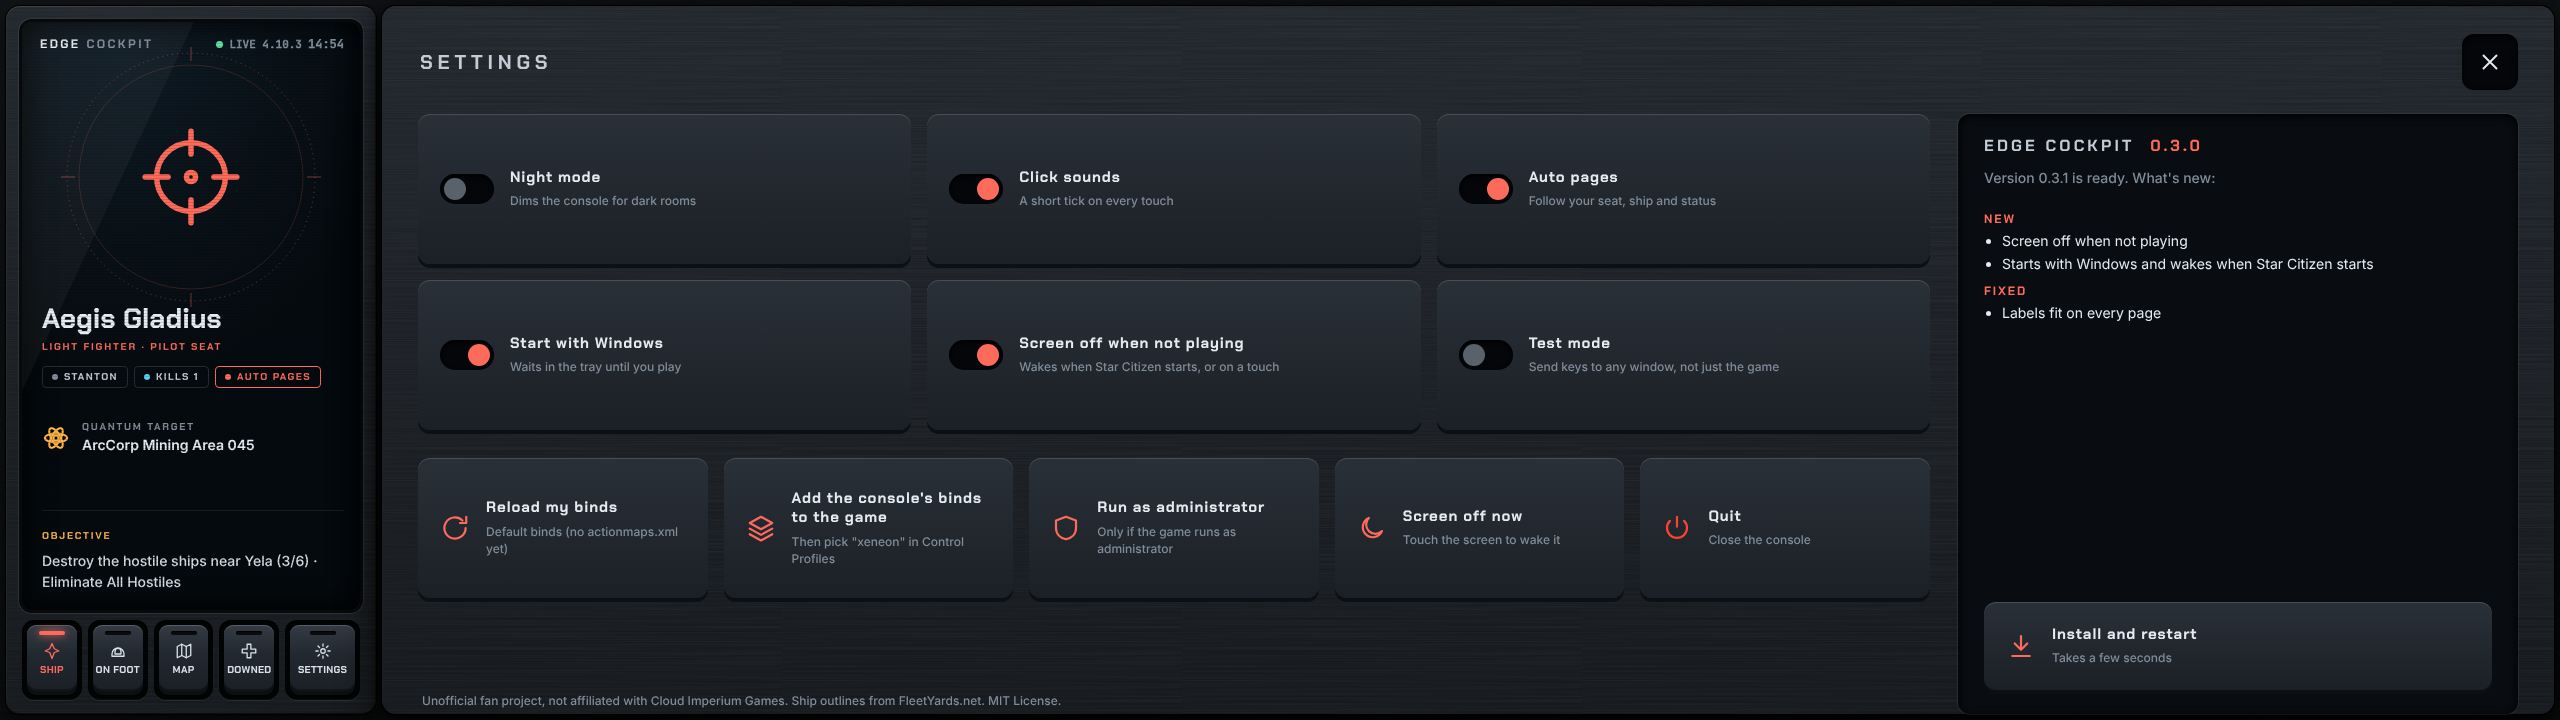
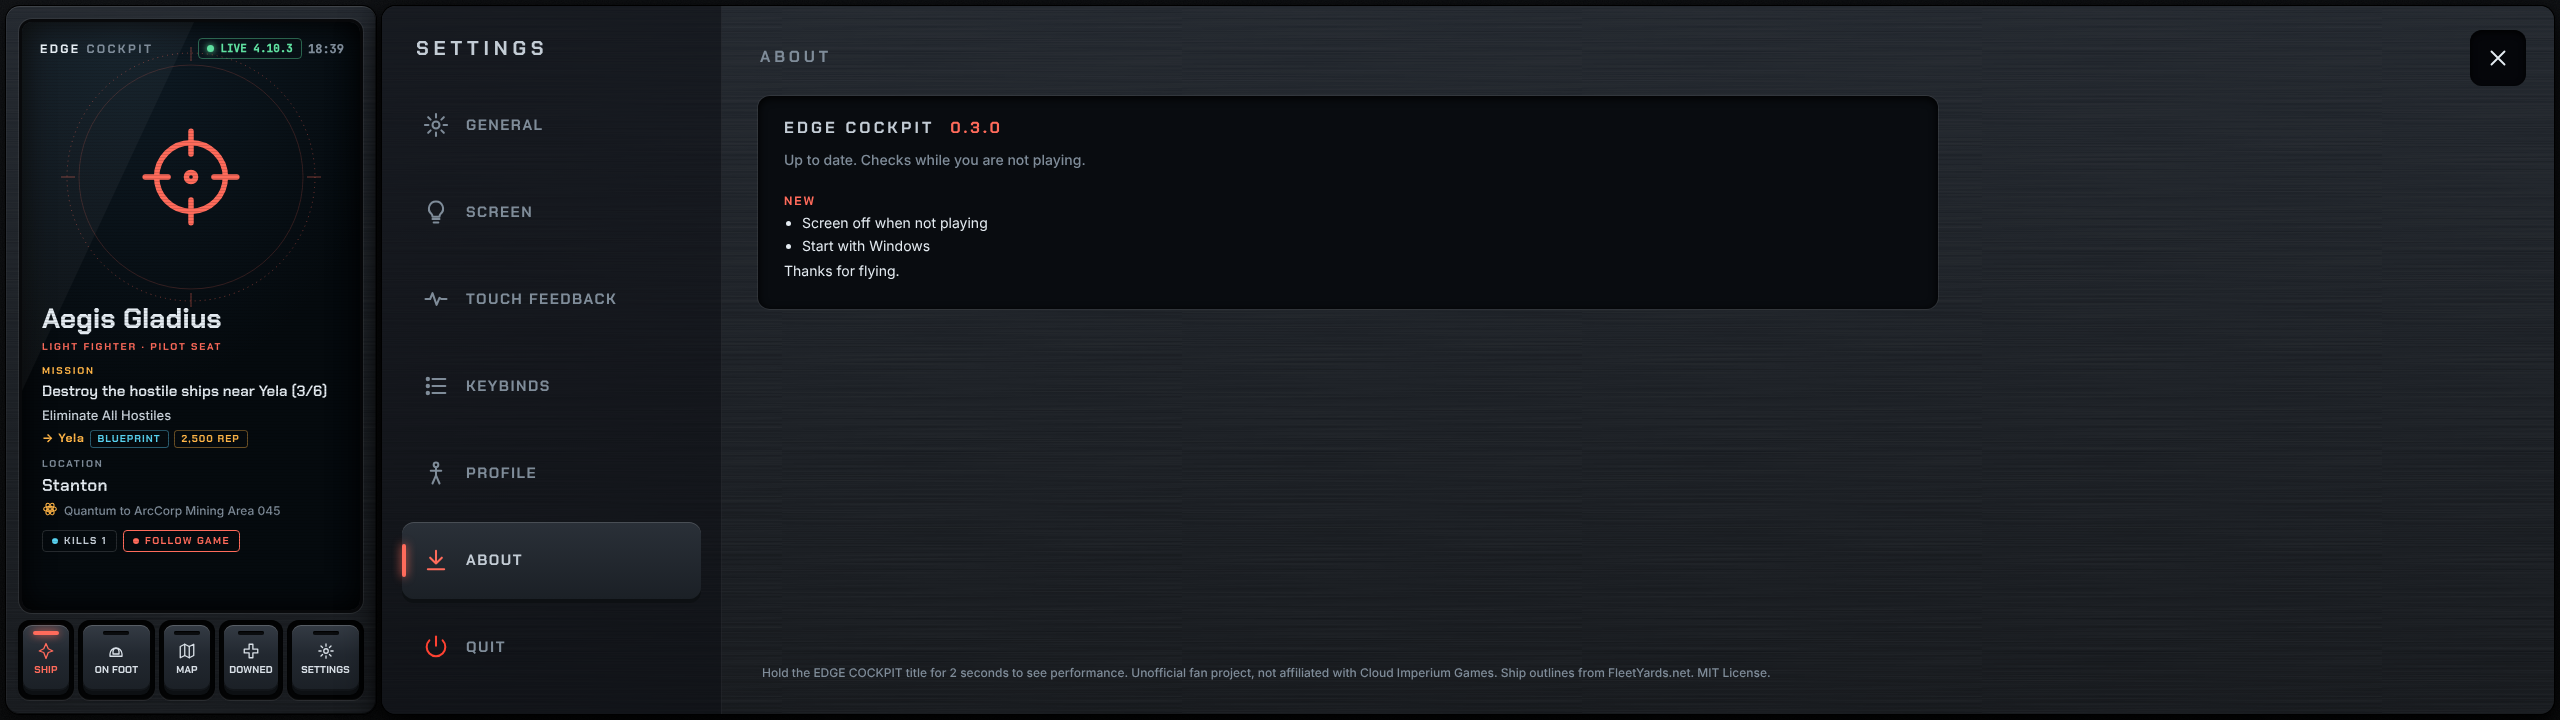
README and screenshots for this release
Claude-Session: https://claude.ai/code/session_019a7Xd5R1iTRyBGREd16EGj

diff --git a/README.md b/README.md
@@ -23,11 +23,13 @@ Unofficial fan project, not affiliated with Cloud Imperium Games.
    Windows SmartScreen warns because the app is not code signed: click **More info**, then **Run anyway**. Each release lists SHA-256 checksums and a VirusTotal scan, and carries a build provenance attestation ([how to verify](SECURITY.md#verifying-a-download)).
 2. In game, open **Options > Keybindings > Advanced Controls Customization > Control Profiles**, pick **xeneon** and tick only **Keyboard**. This gives the console's actions that have no default key a free key. Your own binds stay as they are.
 
-That's all. Edge Cockpit starts with Windows and waits in the tray with its screen dark. It wakes when Star Citizen starts and turns the screen off again when you quit. It updates itself from these releases and shows you what's new.
+That's all. Edge Cockpit starts with Windows and waits in the tray with its screen dark. It wakes when Star Citizen starts and turns the screen off again when you quit. When a new release is out it asks you, with the release notes, and only while you're not playing.
+
+It finds the touchscreen by itself (or pick one in **Settings > Screen**), and has a night mode: on, off, or automatic from 20:00 to 07:00.
 
 ## The console
 
-Every ship page has a power plate, a module for your ship's role, a flight plate and a gear plate. The role module is a target dial for fighters, a laser power knob for mining, a beam head for salvage, a tractor beam slider for cargo, and so on. Swipe it sideways to see the others. To rearrange the plates, long-press a plate's title, drag the plates and tap **Done**. The order is saved for each role. On foot you get a weapon wheel, your suit and comms. Downed, a big revive button.
+Every ship page has a power plate with a big **Flight Ready** button, a module for your ship's role, a flight plate and a gear plate. The role module is a target dial for fighters, a laser power knob for mining, a beam head for salvage, a tractor beam slider for cargo, and so on. Swipe it sideways or tap the arrows to see the others. No key appears twice on a page. To rearrange the plates, long-press a plate's title, drag the plates and tap **Done**. The order is saved for each role. On foot you get a weapon wheel, your suit and comms. Downed, a big revive button.
 
 | | |
 | --- | --- |
@@ -40,22 +42,24 @@ Every ship page has a power plate, a module for your ship's role, a flight plate
 
 | Control | How it works |
 | --- | --- |
-| Keycap | Tap. A light on top means it toggles something |
+| Keycap | Tap. Most switches are push-buttons, because the game doesn't say whether they're on |
 | HOLD tag | The key stays down while you hold it |
 | LONG or 2× tag | Long press or double tap for a second action |
-| MACRO (cut corners) | One tap runs a sequence, such as Startup |
+| MACRO (cut corners) | One tap runs a sequence, such as Ready & ATC or Battle stations |
 | Switch, knob | Tap or turn |
 | Lever, slider | Drag |
 | Red cover | Tap to lift it, then tap again within 3 seconds |
 
 ## It follows the game
 
-- Opens the page for what you are doing: your ship's role page when you sit down, On foot, Downed.
-- Takes your ship maker's colours and shows its outline, role and quantum target. Outlines come from [FleetYards.net](https://fleetyards.net) the first time a ship is seen and are kept on your PC.
-- Shows your mission, location, kills this session and the game build.
-- Reads your `actionmaps.xml`, so keys you rebound in game just work.
+- Opens the page for what you are doing: your ship's role page when you board, On foot when you leave, Downed when you go down.
+- Takes your ship maker's colours and shows its outline, role and quantum target. Outlines come from [FleetYards.net](https://fleetyards.net) the first time a ship is seen and are kept on your PC. On foot it shows the ship you last flew.
+- Shows where you are ("Keeger · Nyx", "Asteroid base · Ungoverned") on a line of the system's planets.
+- Shows your mission: the objective, the contract with its rewards as chips, and where the objective's marker points. Game colour tags, and those of StarStrings and SmartCitizen, are read rather than shown. The game logs no distances, so there are none.
+- Lights a red frame only for a CrimeStat or your ship disabled. Unmonitored or ungoverned space is an amber note.
+- Reads your `actionmaps.xml`, so keys you rebound in game just work. **Settings > Keybinds** lists any key the console can't press.
 
-The game doesn't report gear, power, gimbals or missiles, so those show what you last pressed.
+The game doesn't report gear, power, doors, lights or most switches, so those are push-buttons (doors get separate Open and Close keys), and the gear lever and missiles show what you last pressed. Hold the EDGE COCKPIT title for 2 seconds to see frame rate, CPU, memory and touch-to-key latency.
 
 No telemetry. The only network calls are ship outlines from FleetYards and the update check against these releases.
 
@@ -106,7 +110,7 @@ npx tauri dev          # run it (Windows)
 
 Open `app/ui/index.html?demo=ship` from a local web server to preview the console in a browser (also `demo=armistice`, `demo=alert`, `demo=downed`, or `page=mining`). Run `node scripts/sync.mjs` in `app` first.
 
-After a game patch, take `defaultProfile.xml` from `Data.p4k` and run `scripts/check_patch.py`, `scripts/build_layout.py` and `scripts/build_binds.py` on it. The ship list refreshes itself each month.
+After a game patch, take `defaultProfile.xml` from `Data.p4k` (or a current dump such as [Boxxy-Binder's AllBinds.xml](https://github.com/BoxximusPrime/Boxxy-Binder)) and run `scripts/check_patch.py`, `scripts/build_layout.py` and `scripts/build_binds.py` on it. The ship list refreshes itself each month.
 
 To release, add a section for the version to [CHANGELOG.md](CHANGELOG.md), set the version in `app/src-tauri/tauri.conf.json`, and run the **App** workflow with **release** ticked.
 
